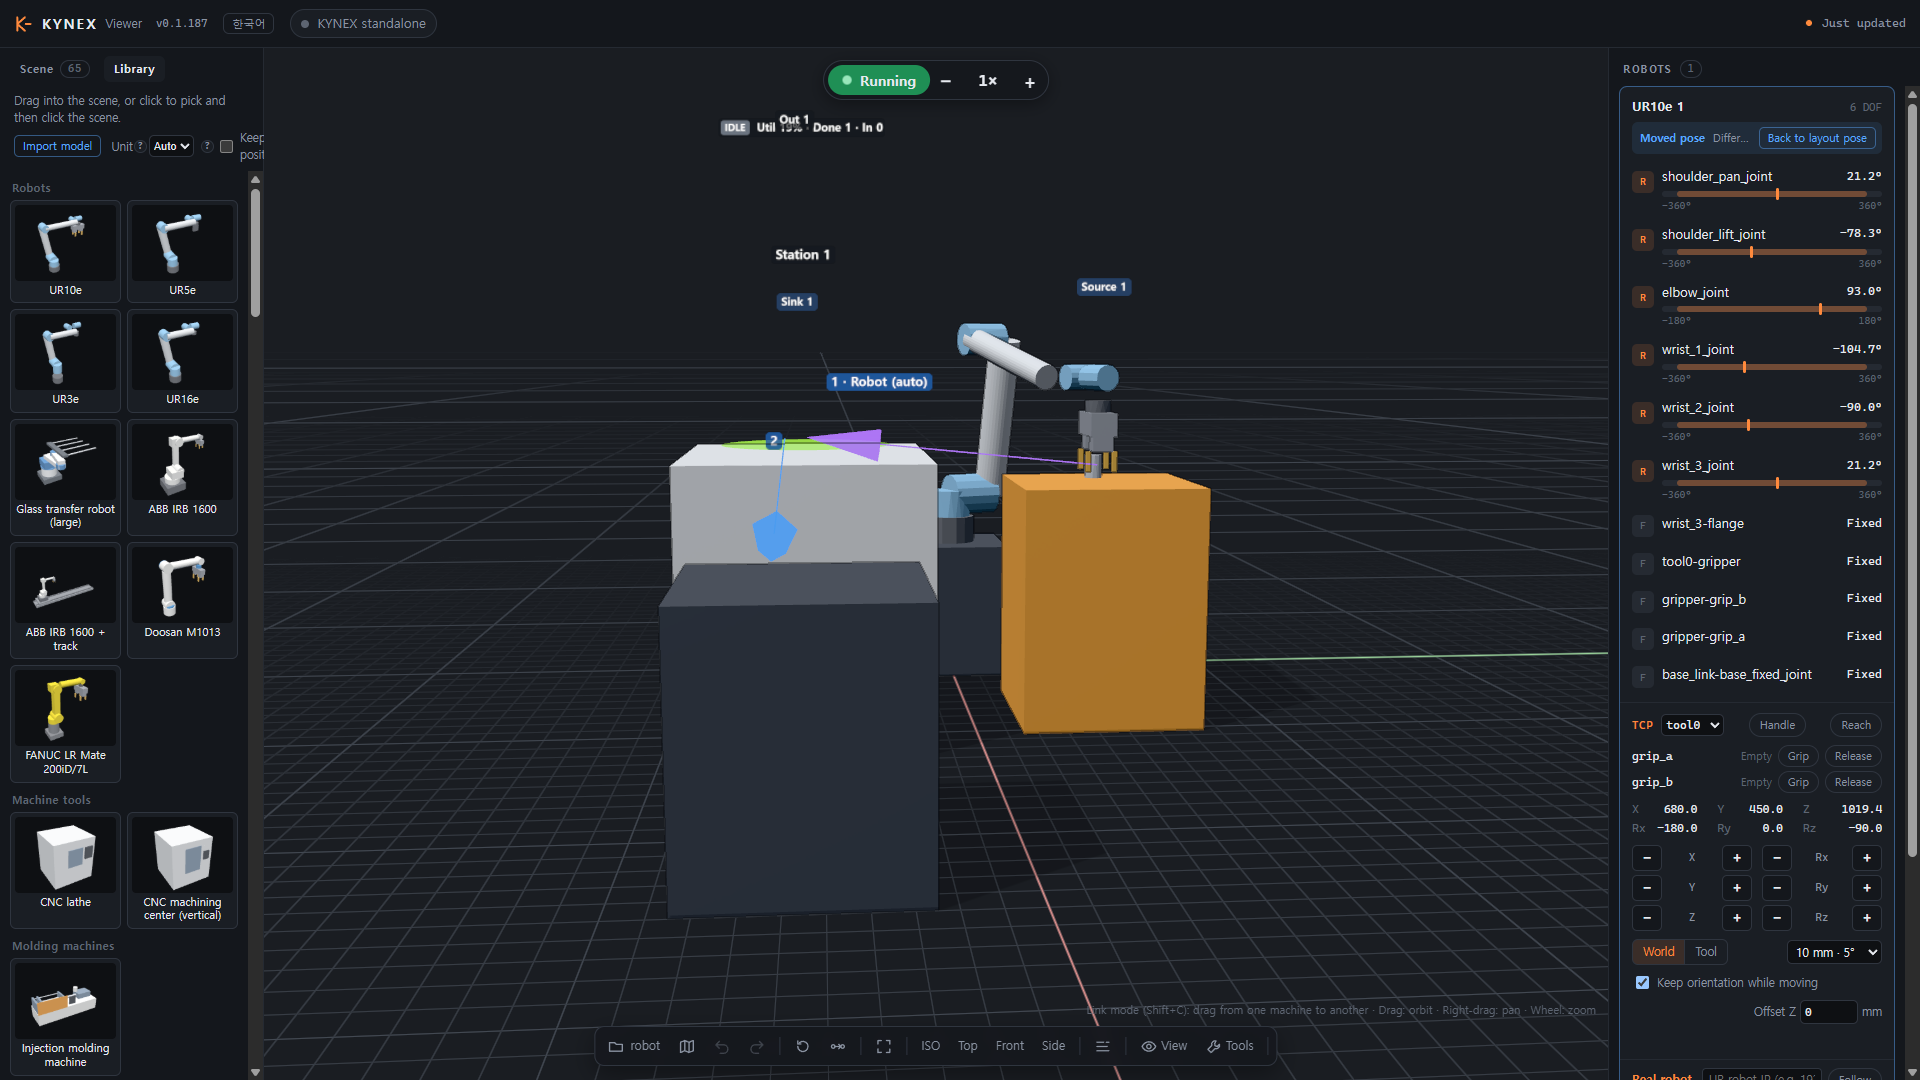
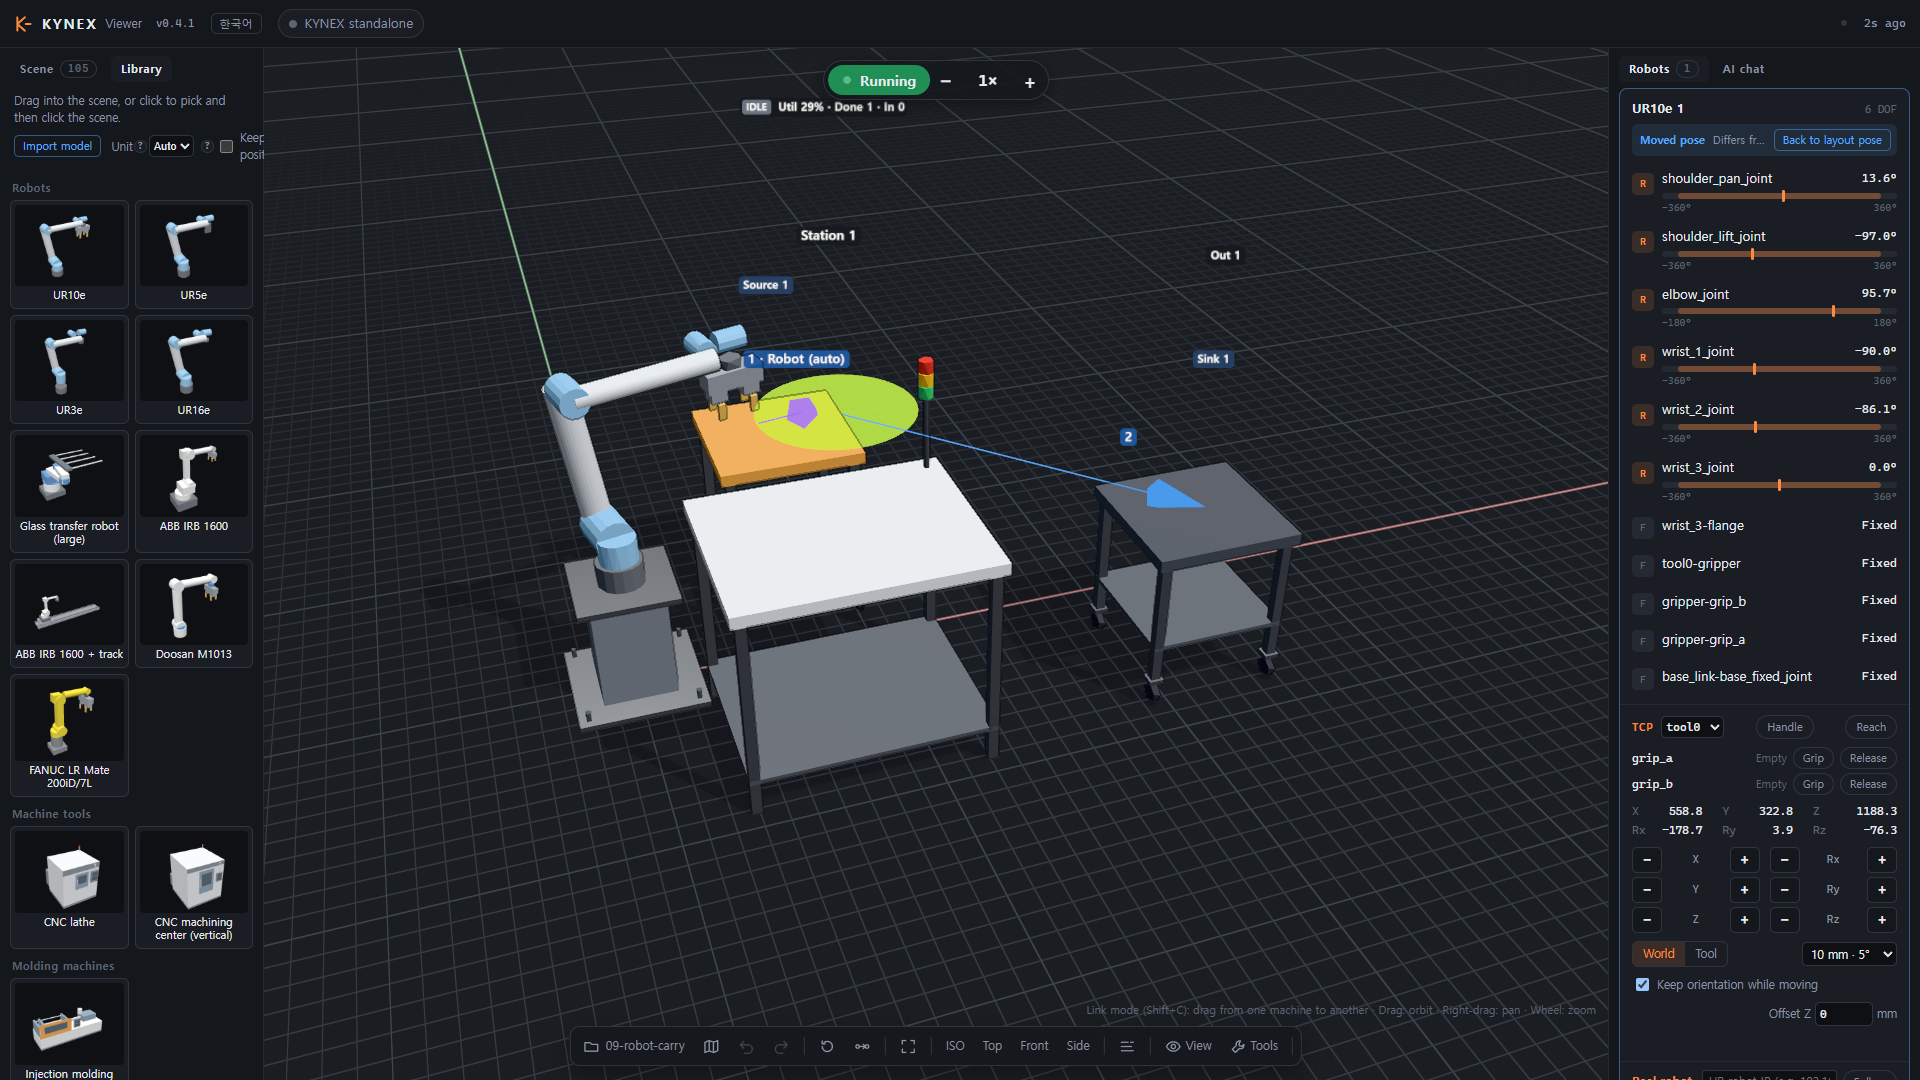
Screenshots of KYNEX 0.4.1
The listing's screenshots taken again from 0.4.1: the hall-lit viewer and
the equipment as it is now built. Two more: lines of CNC machines and an
injection molder with robots and operators, and a factory hall's
equipment. The link mode's is named for what it shows.

diff --git a/screenshots/README.md b/screenshots/README.md
@@ -1,16 +1,20 @@
 # KYNEX screenshots
 
-1920 × 1080, the viewer in English, for store and app listings.
+1920 × 1080, KYNEX 0.4.1, the viewer in English, for store and app listings.
 
 | File | Shows |
 |---|---|
-| `01-factory-simulation.png` | A beverage bottling plant running: each station's state (RUN / IDLE / DOWN), utilization and output over it, the bottleneck in red, splits and merges in the flow |
-| `02-timeline-utilization.png` | The timeline: what each machine and AMR did over the run, and its utilization |
-| `03-statistics.png` | Statistics: output, WIP, lead time, the bottleneck, state by equipment and cumulative output |
-| `04-link-mode-drag.png` | Link mode (Shift+C): a process link drawn by dragging from one machine onto the next |
+| `01-factory-simulation.png` | A beverage bottling plant running: each station's state (RUN / IDLE / DOWN), utilization and output over it, the bottleneck in red, splits and merges in the flow, the finished-goods warehouse at the far end |
+| `02-timeline-utilization.png` | The timeline: what each machine and AMR did over the run, and its utilization, with the plant running above it |
+| `03-statistics.png` | Statistics: output, WIP, lead time, the bottleneck, state by equipment and cumulative parts made |
+| `04-link-mode.png` | Link mode (Shift+C): a line of process tables, linked in turn; the last one is linked by pressing on a station and dragging onto the next |
 | `05-split-merge.png` | A split shared 70 : 30 between two ways that merge again, set from the split's sign |
 | `06-amr-transport-lanes.png` | An AMR carrying parts between stations, numbered AMR stops (P1–P3) and a lane's menu: both ways or one way |
-| `07-robot-cell.png` | A robot carrying the flow's parts, with its joints and TCP in the robot panel |
-| `08-car-body-plant.png` | A car body plant: welding cells, body buffer, E-coat and paint booths in the flow |
+| `07-robot-cell.png` | A robot on its pedestal carrying the flow's parts from a cart to a station, with its joints and TCP in the robot panel |
+| `08-car-body-plant.png` | A car plant: the press tandem (the bottleneck), panel racks, welding cells, the body buffer, E-coat and paint booths |
+| `09-machining-molding-lines.png` | Two lines fed by CNC machining centres and an injection molding machine, robots beside them, operators at the stations, buffers, a split and merges |
+| `10-factory-interior.png` | A factory hall: an overhead crane, pallet racks, a forklift, CNC machines, the press shop and AMR lanes across the floor |
 
-Taken from the demo plants and samples in `apps/kynex/demos/`.
+Taken from the demo plants and samples in `apps/kynex/demos/`. `04` and `05` are
+the sample `01-line-on-plan` with one link left out (`04`) or Station 1 split
+70 : 30 between Buffer 1 and Station 2 (`05`).
